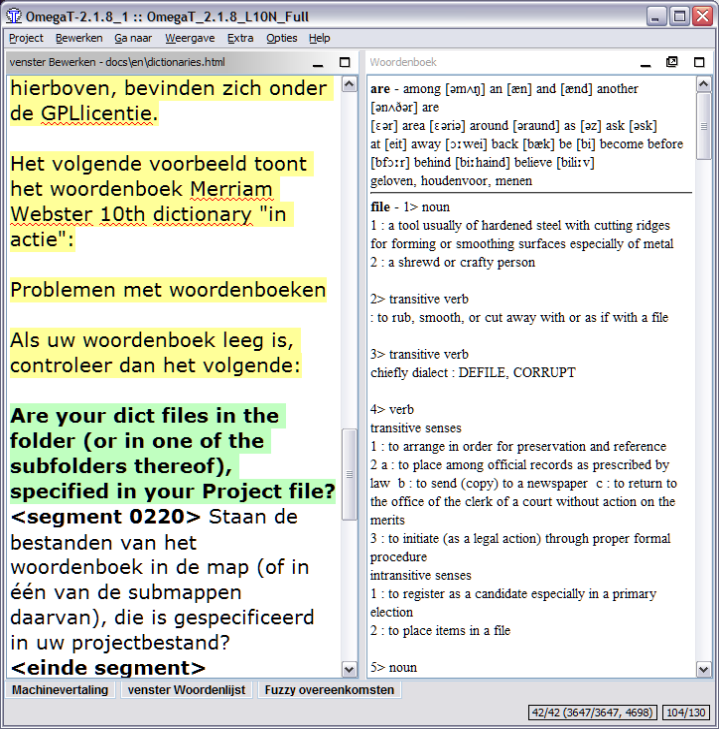
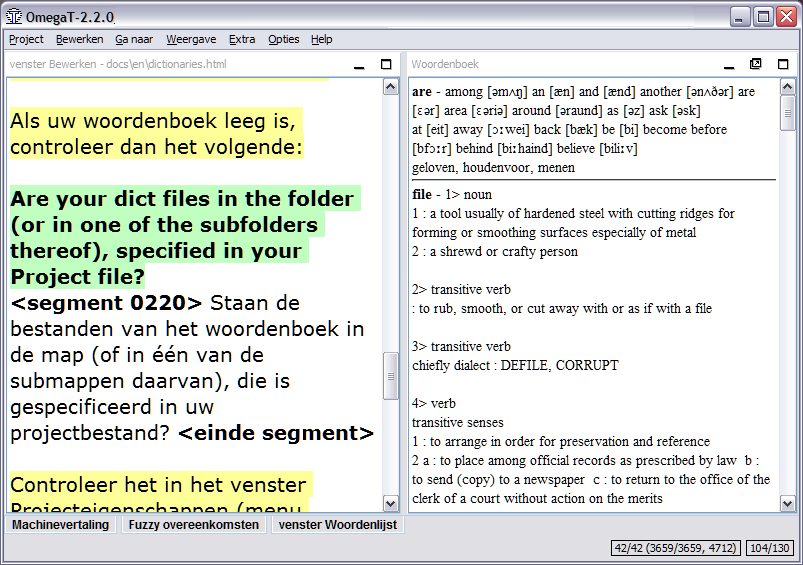
Dutch localisation updated to 2.2.0 (UI, Readme, documentation)

diff --git a/docs/nl/translationMemories.html b/docs/nl/translationMemories.html
@@ -15,7 +15,7 @@
       <ul>
         <li><a href="#TMX_files_locations_and_purpose">Locatie en doel</a></li>
 
-        <li><a href="#TMX_backup">TMX backup</a></li>
+        <li><a href="#TMX_backup">TMX back-up</a></li>
 
         <li><a href="#TMX_files_and_language">TMX en taal</a></li>
       </ul>
@@ -53,7 +53,7 @@
 
   <ul>
     <li>
-      <p>De map <em>/omegat/</em> bevat <em>project_save.tmx</em> en eventueel een aantal backups van TMX-bestanden.</p>
+      <p>De map <em>/omegat/</em> bevat <em>project_save.tmx</em> en eventueel een aantal back-ups van TMX-bestanden.</p>
 
       <p>Het bestand <em>project_save.tmx</em> bevat alle segmenten die zijn onthouden sinds u het project startte.</p>
     </li>
@@ -80,18 +80,18 @@
       </ul>
     </li>
 
-    <li>De map <em>/tm/</em> kan elk aantal TMX-bestanden bevatten. Zulke bestanden moeten correcte TMXbestanden zijn en kunnen ofwel alleen tekstuele informatie bevatten (niveau 1 TMX), OmegaT tekstuele en opmaakinformatie (omegat TMX) of TMX tekstuele en opmaakinformatie (niveau 2 TMX). De verschillen tussen hen zijn technisch van aard (zie hieronder voor de details), en als u een vertaalgeheugen uit een eerder project wilt gebruiken, zijn zij grotendeels uitwisselbaar, dat is zij zullen allemaal goed werken.
+    <li>De map <em>/tm/</em> kan elk aantal TMX-bestanden bevatten. Zulke bestanden moeten correcte TMX-bestanden zijn en kunnen ofwel alleen tekstuele informatie bevatten (niveau 1 TMX), OmegaT tekstuele en opmaakinformatie (omegat TMX) of TMX tekstuele en opmaakinformatie (niveau 2 TMX). De verschillen tussen hen zijn technisch van aard (zie hieronder voor de details), en als u een vertaalgeheugen uit een eerder project wilt gebruiken, zijn zij grotendeels uitwisselbaar, dat is zij zullen allemaal goed werken.
     </li>
   </ul>
-  <p>Optioneel kunt u OmegaT een aanvullend TMXbestand (OmegaT-stijl) laten maken, ergens waar u dat opgeeft, dat alle vertaalbare segmenten van het project bevat. Zie <a href="#pseudo_translate">pseudo-vertaald geheugen</a>.</p>
+  <p>Optioneel kunt u OmegaT een aanvullend TMX-bestand (OmegaT-stijl) laten maken, ergens waar u dat opgeeft, dat alle vertaalbare segmenten van het project bevat. Zie <a href="#pseudo_translate">pseudo-vertaald geheugen</a>.</p>
   
 
   <a name="TMX_backup" id="TMX_backup"></a>
-  <h3>TMX backup</h3>
+  <h3>TMX back-up</h3>
 
   <p>Bij het vertalen van uw bestanden slaat OmegaT al uw voortgang op in het vertaalgeheugen in de submap <em>/omegat</em> van het project.</p>
 
-  <p>OmegaT maakt ook, elke keer als een project wordt geopend of herladen, een backup van het vertaalgeheugen in <em>project_save.tmx.JAARMMDDUUMM.bak</em> in dezelfde submap. <em>JAAR</em> is 4-getallen jaar, <em>MM</em> is een maand, <em>DD</em> dag van de maand, <em>UU</em> en <em>MM</em> zijn uren en minuten van wanneer het vorige vertaalgeheugen werd opgeslagen.</p>
+  <p>OmegaT maakt ook, elke keer als een project wordt geopend of herladen, een back-up van het vertaalgeheugen in <em>project_save.tmx.JAARMMDDUUMM.bak</em> in dezelfde submap. <em>JAAR</em> is 4-getallen jaar, <em>MM</em> is een maand, <em>DD</em> dag van de maand, <em>UU</em> en <em>MM</em> zijn uren en minuten van wanneer het vorige vertaalgeheugen werd opgeslagen.</p>
 
   <p>Als u denkt dat u vertaalde gegevens kwijt bent, volg dan deze procedure:</p>
 
@@ -100,7 +100,7 @@
 
     <li>hernoem het huidige <em>project_save.tmx</em>-bestand naar iets dat u zult onthouden (zoals bijvoorbeeld <em>project_save.tmx.tijdelijk</em>)</li>
 
-    <li>selecteer de backup van het vertaalgeheugen dat meest waarschijnlijk de gegevens bevat die u nodig hebt</li>
+    <li>selecteer de back-up van het vertaalgeheugen dat meest waarschijnlijk de gegevens bevat die u nodig hebt</li>
 
     <li>hernoem het naar <em>project_save.tmx</em></li>
 
@@ -109,7 +109,7 @@
 
   <h3>TMX-bestanden en taal</h3>
 
-  <p>TMXbestanden bevatten <i>vertaaleenheden</i> die zijn gemaakt van een aantal equivalente segmenten in verschillende talen. Een vertaaleenheid bestaat uit ten minste twee <i>vertaaleenheid variaties</i> (tuv). Beide kunnen als bron of doel worden gebruikt.</p>
+  <p>TMX-bestanden bevatten <i>vertaaleenheden</i> die zijn gemaakt van een aantal equivalente segmenten in verschillende talen. Een vertaaleenheid bestaat uit ten minste twee <i>vertaaleenheid variaties</i> (tuv). Beide kunnen als bron of doel worden gebruikt.</p>
 
   <p>De instellingen in uw project zullen aangeven wat de bron- en wat de doeltaal is. OmegaT zal dus de <strong>tuv</strong> nemen die overeenkomt met de brontaalcode van het project en dat segment gebruiken als het bronsegment en het zal de <strong>tuv</strong> nemen die overeenkomt met de doeltaalcode van het project en dat segment gebruiken als het doelsegment. OmegaT herkent ze met behulp van de twee volgende standaardconventies:</p>
 
@@ -150,7 +150,7 @@
     <li>Als u een nieuw project begint voor hetzelfde onderwerp of voor dezelfde klant, navigeer naar de voorraadmap in het dialoogvenster <em>Project &gt; Eigenschappen &gt; Project bewerken</em> en selecteer het als de map voor het vertaalgeheugen.</li>
   </ul>
 
-  <p>Onthoud wel dat alle TMX-bestanden in de voorraadmap <em>/tm</em> worden geparsed tijdens het opstarten van het programma, dus als u daarin alle TMX-bestanden plaats die u tegenkomt zal dat OmegaT onnodig langzamer maken. U zou zelfs kunnen overwegen om die, welke strikt noodzakelijk zijn, uit te schakelen (bijvoorbeeld door ze in de submap <em>/tm</em> te laten staan, maar hun extensie te wijzigen), als hun inhoud eenmaal is geladen in de <em>project_save.tmx</em> van uw huidige project.</p>
+  <p>Onthoud wel dat alle TMX-bestanden in de voorraadmap <em>/tm</em> worden geparset tijdens het opstarten van het programma, dus als u daarin alle TMX-bestanden plaats die u tegenkomt zal dat OmegaT onnodig langzamer maken. U zou zelfs kunnen overwegen om die, welke strikt noodzakelijk zijn, uit te schakelen (bijvoorbeeld door ze in de submap <em>/tm</em> te laten staan, maar hun extensie te wijzigen), als hun inhoud eenmaal is geladen in de <em>project_save.tmx</em> van uw huidige project.</p>
 
   <p><a name="using_memories" id="using_memories"></a></p>
 

diff --git a/docs/nl/glossaries.html b/docs/nl/glossaries.html
@@ -39,7 +39,7 @@ Het woord voor het =-teken is de bronterm en de vertaling is (of zijn) de woorde
 <p>Woordenlijstbestanden zijn eenvoudige platte tekst-bestanden die drie-kolommen, tabgescheiden lijsten bevatten met de bron- en doeltermen in respectievelijk de eerste en tweede kolom. De derde kolom kan worden gebruikt voor aanvullende informatie. Woordenlijstbestanden kunnen of in de standaard systeemcodering (en aangegeven door de extensie <code>.tab</code>) zijn of in UTF-8 (de extensie <code>.utf8</code>). De codering Unicode (UTF8) wordt om voor de hand liggende redenen aanbevolen.</p>
 <hr>
 <h2><a name="howtocreate" id="howtocreate"></a>Hoe zijn woordenlijsten te maken</h2>
-Deze methode is ook geschikt voor "dwazen", mits op een redelijk behoedzame manier gevolgd. U heeft er OpenOffice.org Writer voor nodig, dus - als u dat al niet heeft gedaan - download en installeer OpenOffice.org. Start OpenOffice.org en open een nieuw tekstdocument of start "OpenOffice.org Writer".<br> <br> Voer uw termen voor de woordenlijst als volgt in het lege document in: een term in de brontaal, tab, de term in de doeltaal, tab, een opmerking of uitleg voor het item en dan&nbsp;Return. Tab is de tabulator-toets aan de linkerzijde van het toetsenbord. Indien u geen opmerkingen wilt toevoegen, kunt u de tweede tab weglaten. Een "term" kan één enkel woord zijn of een hele frase. Op de tweede regel voert u de tweede term en diens vertaling in. <br> Als u gereed bent met het invoeren van de termen, zult u twee "kolommen" met termen hebben, termen in de brontaal links en hun termen in de doeltaal aan recht en mogelijk een derde kolom, die uw opmerkingen en uitleg bevat. De tekens tab (→ in het voorbeeld hieronder)&nbsp;en Enter (¶&nbsp;) kunnen zichtbaar worden gemaakt door te klikken op het pictogram ¶ op de werkbalk Standaard van Writer. Hier zijn een aantal regels van een&nbsp;Engels -Duitse woordenlijst)<br>
+Deze methode is ook geschikt voor "dwazen", mits op een redelijk behoedzame manier gevolgd. U heeft er OpenOffice.org Writer voor nodig, dus - als u dat al niet heeft gedaan - download en installeer OpenOffice.org. Start OpenOffice.org en open een nieuw tekstdocument of start "OpenOffice.org Writer".<br> <br> Voer uw termen voor de woordenlijst als volgt in het lege document in: een term in de brontaal, tab, de term in de doeltaal, tab, een opmerking of uitleg voor het item en dan&nbsp;Return. Tab is de tabulator-toets aan de linkerzijde van het toetsenbord. Indien u geen opmerkingen wilt toevoegen, kunt u de tweede tab weglaten. Een "term" kan één enkel woord zijn of een hele frase. Op de tweede regel voert u de tweede term en diens vertaling in.<br> <br> Als u gereed bent met het invoeren van de termen, zult u twee "kolommen" met termen hebben, termen in de brontaal links en hun termen in de doeltaal aan recht en mogelijk een derde kolom, die uw opmerkingen en uitleg bevat. De tekens tab (→ in het voorbeeld hieronder)&nbsp;en Enter (¶&nbsp;) kunnen zichtbaar worden gemaakt door te klikken op het pictogram ¶ op de werkbalk Standaard van Writer. Hier zijn een aantal regels van een&nbsp;Engels -Duitse woordenlijst)<br>
 <br>
 <div style="font-family: Courier New,Courier,monospace;">&nbsp;&nbsp;&nbsp;
 word →Wort→das (-/e/s, Wörter/-e)¶</div>
@@ -57,7 +57,7 @@ Gebruik NIET de functie "kolommen" van OpenOffice.org om kolommen te maken:&nbsp
  style="font-style: italic;">Huidige indeling behouden</span>" en&nbsp; "<span style="font-style: italic;">Opslaan in ODF-indeling</span>". Selecteer "<span style="font-style: italic;">Huidige indeling behouden</span>" om in de bestandsindeling tekst gecodeerd op te slaan. Selecteer "<span style="font-style: italic;">Unicode (UTF-8)</span>" als de tekenset in het dialoogvenster ASCII-filteropties (zie hieronder):<br> <br> <img alt="ascii-filteropties voor woordenlijst"
  src="./images/AsciiFilteroptions.png"><br> <br> Bevestig met OK.<br> <br> Kopieer of verplaats dit bestand naar de map <span style="font-style: italic;">\glossary</span> van het project, na het maken van een OmegaT project. Als het project al is geopend, herlaad het dan na het kopiëren van het woordenlijstbestand U kunt wijzigingen maken in een woordenlijstbestand terwijl het wordt gebruikt in een project. Wijzigingen in woordenlijsten worden na ongeveer één seconde opgemerkt en wijzigingen worden transparant op de achtergrond geladen, dus is er geen reden om het project opnieuw te laden na het opslaan van het nieuwe woordenlijstbestand.<br> <br> Wanneer een segment, dat een brontekstterm bevat, wordt geopend, zal het venster Woordenlijst de items weergeven voor die termen in het bronsegment die worden gevonden in de woordenlijst (of woordenlijsten - u kunt er meer dan één beschikbaar hebben, en zij mogen ook worden opgeslagen in submappen van <i>glossary</i>).
 <h3><a name="multiterm" id="multiterm"></a>Gebruik van Trados Multiterm</h3>
-<p>Woordenlijsten die zijn gemaakt met behulp van Trados Multiterm's tekstexportfunctie kunnen bijvoorbeeld zonder verdere aanpassingen worden gebruikt als OmegaT-woordenlijsten, vooropgesteld dat zij de bestandsextensie <code>.tab</code> hebben gekregen en de bron- en doelterm-velden respectievelijk de eerste twee velden zijn. Indien u exporteert met behulp van de systeemoptie "Tabgescheiden exporteren", moet u de eerste 5 kolommen verwijderen (Seq. Nr, Datum gemaakt etc) vóór de twee items die van belang zijn.</p>
+<p>Woordenlijsten die zijn gemaakt met behulp van de functie tekstexport van Trados Multiterm kunnen bijvoorbeeld zonder verdere aanpassingen worden gebruikt als OmegaT-woordenlijsten, vooropgesteld dat zij de bestandsextensie <code>.tab</code> hebben gekregen en de bron- en doelterm-velden respectievelijk de eerste twee velden zijn. Indien u exporteert met behulp van de systeemoptie "Tabgescheiden exporteren", moet u de eerste 5 kolommen verwijderen (Seq. Nr, Datum gemaakt etc) vóór de twee items die van belang zijn.</p>
 <hr>
 <h2><a name="commonglossaryproblems" id="commonglossaryproblems"></a>Algemene problemen met woordenlijsten</h2>
 <dl>

diff --git a/docs/nl/filesAndDirectories.html b/docs/nl/filesAndDirectories.html
@@ -30,7 +30,7 @@
   <ul>
     <li>Projectbestanden vertaling: Zij vormen een vertaalproject. Verlies van deze bestanden kan de integriteit van het project beïnvloeden alsmede de mogelijkheid van het voltooien van uw werk. Projectbestanden zijn de meest belangrijke bestanden in OmegaT. Het zijn de bestanden waarmee u dagelijks hebt te maken bij het vertalen.</li>
 
-    <li>Bestanden voor gebruikersinstellingen: Zij worden gemaakt als het gedrag van OmegaT wordt gewijzigd met voorkeursinstellingen die voor de gebruiker toegankelijk zijns. Verlies van deze bestanden zorgt er meestal voor dat OmegaT zal werken met "fabrieks"instellingen. Dit kan soms enige problemen geven als u midden in een vertaling bent.</li>
+    <li>Bestanden voor gebruikersinstellingen: Zij worden gemaakt als het gedrag van OmegaT wordt gewijzigd met voorkeursinstellingen die voor de gebruiker toegankelijk zijn. Verlies van deze bestanden zorgt er meestal voor dat OmegaT zal werken met "fabrieks"instellingen. Dit kan soms enige problemen geven als u midden in een vertaling bent.</li>
 
     <li>Toepassingsbestanden: Zij zijn opgenomen in het pakket dat u hebt gedownload, de meeste er van zijn nodig om OmegaT juist te laten functioneren. Als door enige oorzaak deze bestanden verloren gaan, download en herinstalleer dan OmegaT om ze allemaal terug te zetten.</li>
   </ul>
@@ -65,7 +65,7 @@
 
   <dl>
     <dt>De submap <b>omegat</b> zal uiteindelijk een aantal bestanden bevatten, het meest belangrijke daaronder is het bestand met het vertaalgeheugen <em>project_save.tmx</em> (<a href="translationMemories.html">...</a>). Het bestand <em>project_save.tmx</em> is het werkende vertaalgeheugen voor het project. Met de geactiveerde functie Automatisch opslaan wordt het automatisch bijgewerkt als u stopt. Het is het vertaalgeheugen dat wordt gebruikt om de vertaalde bestanden te maken. Een aantal bestanden met namen in de vorm project_save.tmx.<i>&lt;datum en tijd</i>&gt;.bak (<a href=
-    "translationMemories.html#TMX_backup">...</a>) zullen later aan deze submap worden toegevoegd. Zij dienen als backup voor het vertaalgeheugen van het project en worden, iedere keer als u een project opnieuw opent, bijgewerkt om de inhoud van het project weer te geven, voordat de huidige sessie die heeft veranderd.</dt>
+    "translationMemories.html#TMX_backup">...</a>) zullen later aan deze submap worden toegevoegd. Zij dienen als back-up voor het vertaalgeheugen van het project en worden, iedere keer als u een project opnieuw opent, bijgewerkt om de inhoud van het project weer te geven, voordat de huidige sessie die heeft veranderd.</dt>
 
     <dd>Het bestand <b>stats.txt</b> (<a href="userInterface.html#files">...</a>) bevat de statistieken over het huidige project en kan worden geopend in een werkbladtoepassing om segment- en informatie over de telling van woorden weer te geven. De informatie die het bevat is meer gedetailleerd dan wat er wordt weergegeven in het venster <em>Projectbestanden</em>. De bestanden <strong>ignored_words.txt</strong> en <strong>learned_words.txt</strong>, indien zij bestaan, zullen worden gebruikt door de spellingscontrole.</dd>
   </dl>
@@ -245,7 +245,7 @@
   <h3><a name="application" id="application"></a>Toepassingsbestanden</h3>
 
   <p>OmegaT bestaat uit een pakket dat u kunt downloaden vanaf SourceForge. In dit hoofdstuk gaan we uit van het <a href=
-  "installingAndRunning.html#Andere_systemen">platformonafhankelijke pakket</a> dat de toepassing in een standaard Java-vorm bevat. Andere pakketten zijn: een Linux <code>.tar</code> pakket, een Windows-installatieprogramma -met of zonder een Java Runtime Environment, een MacOSX-installatieprogramma en een broncodepakket voor ontwikkelaars. Dit platformonafhankelijke pakket kan worden gebruikt op <strong>elk</strong> platform met een werkende Java 1.5 runtime omgeving, inclusief de platforms waarvoor een specifiek pakket bestaat. Het platformonafhankelijke pakket bestaat uit een gecomprimeerd bestand dat u in de map van uw keuze moet uitpakken bij de installatie. Uitpakken wordt gewoonlijk gedaan door te dubbelklikken op het gedownloade pakket. Eenmaal uitgepakt zal een map zijn gemaakt die de de volgende inhoud zal bevatten:</p>
+  "installingAndRunning.html#Andere_systemen">platform onafhankelijke pakket</a> dat de toepassing in een standaard Java-vorm bevat. Andere pakketten zijn: een Linux <code>.tar</code> pakket, een Windows-installatieprogramma -met of zonder een Java Runtime Environment, een MacOSX-installatieprogramma en een broncodepakket voor ontwikkelaars. Dit platform onafhankelijke pakket kan worden gebruikt op <strong>elk</strong> platform met een werkende Java 1.5 runtime omgeving, inclusief de platforms waarvoor een specifiek pakket bestaat. Het platform onafhankelijke pakket bestaat uit een gecomprimeerd bestand dat u in de map van uw keuze moet uitpakken bij de installatie. Uitpakken wordt gewoonlijk gedaan door te dubbelklikken op het gedownloade pakket. Eenmaal uitgepakt zal een map zijn gemaakt die de volgende inhoud zal bevatten:</p>
 
   <table width="100%" border="1" cellpadding="4" cellspacing="0" summary=
   "just formatting">

diff --git a/docs/nl/spellchecker.html b/docs/nl/spellchecker.html
@@ -53,16 +53,16 @@
   <p>Klikken op <b>Opties &gt; Spellingscontrole...</b> zal het onderstaande venster openen:</p>
 
   <p><br></p><img src="images/SpellcheckerSetup2.png" name="grafika2" alt=
-  "Instellen spellingscontrole" align="left" width="498" height="325" border="0" id=
+  "Opties voor spellingscontrole" align="left" border="0" id=
   "grafika2"><br clear="left">
 
   <p><br></p>
 
   <p>Het bovenstaande voorbeeld bevat reeds de beschikbare woordenboeken. Initieel zal er niets in staan omdat u moet specificeren waar OmegaT moet zoeken naar de woordenboeken. Klik op <strong>Kies...</strong> om een dialoogvenster te openen waar u een submap kunt selecteren met bestaande woordenboeken van OpenOffice.org of Mozilla. De eenvoudigste manier om ze te vinden is om te zoeken naar bestanden met de extensies <i>aff</i> of <i>dic</i>. OmegaT zal alle beschikbare geldige woordenboeken op die locatie herkennen en ze weergeven. Als het woordenboek dat u wilt gebruiken daar al staat en zichtbaar is voor OmegaT, bent u klaar. Als er geen woordenboeken werden gevonden kunt u er een toepasselijke plaats voor kiezen en dan klikken op <b>Installeren</b> en OmegaT laten zoeken naar beschikbare woordenboeken. Selecteer de woordenboeken die u nodig hebt in het pop-upvenster en klik dan op <b>installeren</b>. De geselecteerde talen zullen dan worden geïnstalleerd en verschijnen uiteindelijk in het venster Instellen spellingscontrole (dit kan even duren).</p>
 
-  <p>Onthoud dat het installatieprogramma afhankelijk is van de lijst met woordenboeken op het internet. In het geval dat die gedateerd is of de gewenste taal niet beschikbaar is zult u zelf moeten zoeken naar de woordenboeken. OpenOffice.org bevat waarschijnlijk de grootste collectie woordenboeken op de site &lt;a3&gt;OpenOffice.org Dictionaries&lt;/a3&gt;. Nadat de extensie met het woordenboek is gedownload en geïnstalleerd, zullen de corresponderende <i>aff</i> en <i>dic</i> beschikbaar komen. Hetzelfde kan worden bereikt door een extensie voor spellingscontrole toe te voegen aan Firefox of Thunderbird; in dit geval zullen de bestanden van de spellingscontrole worden opgeslagen in uw profiel (Firefox of Thunderbird).</p>
+  <p>Onthoud dat het installatieprogramma afhankelijk is van de lijst met woordenboeken op het internet. In het geval dat die gedateerd is of de gewenste taal niet beschikbaar is zult u zelf moeten zoeken naar de woordenboeken. OpenOffice.org bevat waarschijnlijk de grootste collectie woordenboeken op de site <a href="http://extensions.services.openoffice.org/dictionary">OpenOffice.org Dictionaries</a>. Nadat de extensie met het woordenboek is gedownload en geïnstalleerd, zullen de corresponderende <i>aff</i> en <i>dic</i> beschikbaar komen. Hetzelfde kan worden bereikt door een extensie voor spellingscontrole toe te voegen aan Firefox of Thunderbird; in dit geval zullen de bestanden van de spellingscontrole worden opgeslagen in uw profiel (Firefox of Thunderbird).</p>
 
-  <p>Zorg er voor dat de taalcode van de doelbestanden correspondeert met de taalcode van het woordenboek: een FR-FR woordenboek zal niet werken met de instelling FR voor het doel. U zult de instelling naar FR-FR moeten wijzigen om de spellingscontrole het juiste woordenboek voor uw doel te laten herkennen. Zoek naar bestanden met de naam, verwijzend naar de gebruikte taal en die de extensies <i>aff</i> en &lt;i2&gt;dic.&lt;/i2&gt; hebben.</p>
+  <p>Zorg er voor dat de taalcode van de doelbestanden correspondeert met de taalcode van het woordenboek: een FR-FR woordenboek zal niet werken met de instelling FR voor het doel. U zult de instelling naar FR-FR moeten wijzigen om de spellingscontrole het juiste woordenboek voor uw doel te laten herkennen. Zoek naar bestanden met de naam, verwijzend naar de gebruikte taal en die de extensies <i>aff</i> en <i>dic.</i> hebben.</p>
 
   <h3><a name="Hints" id="Hints"></a>Hints</h3>
 
@@ -74,7 +74,7 @@
     </li>
 
     <li>
-      <p>Controleer de taalcode van uw doel met de beschikbare woordenboeken in het venster Instellen spellingscontrole. De spellingscontrole bepaalt de taal die het moet gebruiken uit de taalcode van het doel: als de taalcode voor het doel Braziliaans Portugees (PT_BR) is, moet de submap met woordenboeken de twee woordenboekbestanden, genaamd pt_br.aff en pt_br.dic, bevatten.</p>
+      <p>Controleer de taalcode van uw doel met de beschikbare woordenboeken in het venster Instellen spellingscontrole. De spellingscontrole bepaalt de taal die het moet gebruiken uit de taalcode van het doel: als de taalcode voor het doel Braziliaans Portugees (PT_BR) is, moet de submap met woordenboeken de twee woordenboekbestanden, genaamd <i>pt_br.aff</i> en <i>pt_br.dic</i>, bevatten.</p>
     </li>
   </ol>
 

diff --git a/docs/nl/installingAndRunning.html b/docs/nl/installingAndRunning.html
@@ -279,7 +279,7 @@
 
   <p>Dubbelklik op het programma dat u hebt gedownload en  volg de instructies om OmegaT te installeren. </p>
 
-  <h3><a name="windows_menu" id="windows_menu"></a>OmegaT toevoegen aan het startmenu of bureaublad</h3>
+  <h3><a name="windows_menu" id="windows_menu"></a>OmegaT toevoegen aan het menu Start of bureaublad</h3>
 
   <p>Gedurende de installatie zal het programma u vragen of u een map in het menu <em>Start</em> wilt maken en of u een snelkoppeling op het bureaublad en het systeemvak wilt maken.</p>
 
@@ -317,11 +317,11 @@
 
   <p>Als u de Java-startparameters vanaf de opdrachtregel wilt wijzigen kunt u de standaardinstellingen van OmegaT.app aanpassen door het bewerken van het bestand <em>Info.plist</em> dat zich bevind in <em>OmegaT.app/Contents/</em>. Open het bestand "Info.plist" door er met rechts op te klikken en de tekstbewerker van uw keuze te kiezen. U kunt het gedeelte <em>Properties</em> en ook het gedeelte <em>VMOptions</em> aanpassen. Indien u waarden wilt toevoegen aan <em>VMOptions</em>, plaatst u er een spatie tussen. Bijvoorbeeld: <code>-Xmx1024M -Duser.language=ja</code> zal OmegaT opstarten met 1024MB aan geheugen en de gebruikersinterface in het Japans.</p>
 
-  <p>Direct opstarten van <em>OmegaT.app</em> maakt het niet mogelijk om meerdere instances van <em>OmegaT.app</em> uit te voeren. Als u meerdere instances van <em>OmegaT.app</em> moet uitvoeren, gebruik dan in plaats daarvan het bestand <em>JavaApplicationStub</em> dat zich bevind in <em>OmegaT.app/ Contents/MacOS/</em>.</p>
+  <p>Direct opstarten van <em>OmegaT.app</em> maakt het niet mogelijk om meerdere instances van <em>OmegaT.app</em> uit te voeren. Als u meerdere instanties van <em>OmegaT.app</em> moet uitvoeren, gebruik dan in plaats daarvan het bestand <em>JavaApplicationStub</em> dat zich bevind in <em>OmegaT.app/ Contents/MacOS/</em>.</p>
 
   <p>Het is niet mogelijk om de Lucene stemmer te gebruiken uit het pakket <em>OmegaT.app</em>. U moet OmegaT uitvoeren vanaf de opdrachtregel (zie hieronder).</p>
 
-  <p>Roep het bestand <em>OmegaT.jar</em> aan dat zich bevind in <em>OmegaT.app/Contents/Resources/ Java/</em> om startparameters van Java te wijzigen vanaf de opdrachtregel. Opstarten van <em>OmegaT.app</em> vanaf de opdrachtregel is hetzelfde als het gebruiken van het "algemene" pakket van OmegaT. U zult in staat zijn om meerdere instances van OmegaT uit te voeren en ook om de Lucene stemmer te gebruiken. Bekijk "Starten vanaf de opdrachtregel" hieronder voor meer informatie.</p>
+  <p>Roep het bestand <em>OmegaT.jar</em> aan dat zich bevind in <em>OmegaT.app/Contents/Resources/ Java/</em> om startparameters van Java te wijzigen vanaf de opdrachtregel. Opstarten van <em>OmegaT.app</em> vanaf de opdrachtregel is hetzelfde als het gebruiken van het "algemene" pakket van OmegaT. U zult in staat zijn om meerdere instanties van OmegaT uit te voeren en ook om de Lucene stemmer te gebruiken. Bekijk "Starten vanaf de opdrachtregel" hieronder voor meer informatie.</p>
 
   <p>Klik met rechts op <em>OmegaT.app</em> en selecteer "Show Package Contents", of "cd" daar direct naar toe vanaf de opdrachtregel om toegang te krijgen tot een locatie binnen het pakket <em>OmegaT.app</em>.</p>
 
@@ -396,7 +396,7 @@
 
   <h3>Methode 1: openen van een venster voor de opdrachtregel</h3>
 
-  <p>Een venster voor de opdrachtregel wordt ook wel een "terminalvenster" genoemd. Op Windows wordt het een "MS-DOSvenster" genoemd en is het beschikbaar via het Startmenu, in Alle programma's → Bureau-accessoires, via het item "Opdrachtprompt". Het equivalent voor de Mac OS X is de toepassing Terminal die zich bevind in Programma's → Hulpprogramma's.</p>
+  <p>Een venster voor de opdrachtregel wordt ook wel een "terminalvenster" genoemd. Op Windows wordt het een "MS-DOSvenster" genoemd en is het beschikbaar via het menu Start, in Alle programma's → Bureau-accessoires, via het item "Opdrachtprompt". Het equivalent voor de Mac OS X is de toepassing Terminal die zich bevind in Programma's → Hulpprogramma's.</p>
 
   <p>U moet normaal gesproken twee opdrachten typen om OmegaT te starten. De eerste hiervan is:</p>
 

diff --git a/docs/nl/userInterface.html b/docs/nl/userInterface.html
@@ -44,6 +44,11 @@
                 <li>
                   <p><a href="#Match">venster Overeenkomsten</a></p>
                 </li>
+
+                <li>
+                  <p><a href="#Glossary">venster Woordenlijst</a></p>
+                </li>
+
                 <li>
                   <p><a href="#Glossary">venster Woordenlijst</a></p>
                 </li>
@@ -495,7 +500,7 @@
   <dl>
     <dt>Er zijn twee <a href="searches.html#searchmethods">typen</a> om te zoeken beschikbaar:</dt>
 
-    <dt>Exact zoeken zoekt naar de gespecificeerde zoekreeks binnen het huidige project of in een willekeurige map of mapgedeelte.</dt>
+    <dt><strong>Exact zoeken</strong> zoekt naar de gespecificeerde zoekreeks binnen het huidige project of in een willekeurige map of mapgedeelte.</dt>
 
     <dt><strong>Zoeken op sleutelwoorden -</strong> onderzoekt het huidige project en geeft alle segmenten weer die alle gezochte woorden bevatten, in willekeurige volgorde.</dt>
   </dl>
@@ -530,7 +535,7 @@
   <p>De tags worden vet blauw geaccentueerd voor eenvoudige vergelijking tussen de originele en de vertaalde inhoud. Klik op de koppeling om naar het segment in het venster Bewerken te springen. Verbeter, indien nodig, de fout en druk op <code><a href="menu.html#shortcuts">Ctrl+T</a></code> om terug te keren naar het venster Tags valideren om andere fouten te corrigeren. In het eerste en derde geval hierboven waren tags niet correct gepaard en in het tweede geval ontbreekt bij de openingstag het &lt;-teken.</p>
 
   <p><a href="formattedText.html#intro">Tag</a>-fouten zijn <a href=
-  "formattedText.html#tag_operation">tagbewerkingen</a> in de vertaling die niet dezelfde tagvolgorde en nummering teruggeven als die in het originele segment. Sommige tagbewerkingen zijn noodzakelijk en zijn goedaardig, sommige zullen problemen veroorzaken als het vertaalde document wordt gemaakt. Tags vertegenwoordigen meestal enige vorm van opmaak in de originele tekst. <strong>Vereenvoudigen van de originele tekstopmaak</strong> draagt enorm bij tot het verminderen van het aantal tags.</p>
+  "formattedText.html#tag_operation">tagbewerkingen</a> in de vertaling die niet dezelfde tagvolgorde en nummering teruggeven als die in het originele segment. Sommige tagbewerkingen zijn noodzakelijk en zijn goedaardig, sommige zullen problemen veroorzaken als het vertaalde document wordt gemaakt. Tags vertegenwoordigen meestal enige vorm van opmaak in de originele tekst. <strong>Vereenvoudigen van de opmaak van de originele tekst</strong> draagt enorm bij aan het verminderen van het aantal tags.</p>
 
   <h3>Help-browser</h3>
 

diff --git a/docs/nl/filesToTranslate.html b/docs/nl/filesToTranslate.html
@@ -133,7 +133,7 @@
   <h3><a name="tagged" id="tagged"></a>Opgemaakte tekstbestanden</h3>
 
   <p>Opgemaakte tekstbestanden bevatten zowel tekst als informatie, zoals lettertype, afmeting, kleur etc. Zij worden normaal gesproken gemaakt met tekstbewerkingsprogramma's of programma's voor het maken van homepages. Zulke bestanden worden zodanig opgeslagen dat zij hun opmaakinformatie behouden. Zulke opmaakinformatie kan eenvoudig zijn zoals <strong>dit is vet</strong> of zo complex als tabelgegevens met verschillende lettertype-afmetingen, kleur, positie etc. In de meeste vertalingen wordt het belangrijk geacht dat het vertaalde document er uitziet zoals het origineel. OmegaT stelt u in staat om dit te doen door het markeren van de tekens/woorden die een speciale opmaak hebben met eenvoudig te bewerken <a href="formattedText.html">tags</a>. Vereenvoudigen van de opmaak van de originele tekst draagt enorm bij aan het verminderen van het aantal tags. Het gelijk maken van gebruikte lettertypen, lettertype-afmetingen, kleuren etc zou indien mogelijk moeten worden overwogen, om het vertalen te vereenvoudigen en het verminderen van het aantal mogelijke <a href=
-  "userInterface.html#Tag_validation">fouten in tags</a>. Elk bestandstype wordt verschillend behandeld in OmegaT. Specifiek gedrag kan worden ingesteld in de <a href="fileFilters.html">bestandsfilters</a>. Momenteel ondersteunt OmegaT de volgende formaten voor opgemaakte tekst:</p>
+  "userInterface.html#Tag_validation">fouten in tags</a>. <a name="specifics" id="specifics"></a> Elk bestandstype wordt verschillend behandeld in OmegaT. Specifiek gedrag kan worden ingesteld in de <a href="fileFilters.html">bestandsfilters</a>. Momenteel ondersteunt OmegaT de volgende formaten voor opgemaakte tekst:</p>
 
   <ul>
     <li>

diff --git a/docs/nl/xindex.html b/docs/nl/xindex.html
@@ -231,10 +231,15 @@
         <td width="20%"><a href=
         "installingAndRunning.html#Windows_users">Windows-gebruikers</a></td>
 
+        <td width="20%"><a href="installingAndRunning.html#MacOSX_users">MacOSX
+        users</a></td>
+
         <td width="20%"><a href="installingAndRunning.html#Andere_systemen">Andere systemen</a></td>
 
         <td width="20%"><a href="installingAndRunning.html#build_which">Pakket om te downloaden</a></td>
+      </tr>
 
+      <tr>
         <td width="20%"><a href=
         "installingAndRunning.html#source_build">OmegaT bouwen vanuit de bron</a></td>
       </tr>
@@ -265,7 +270,7 @@
 
       <tr>
         <td width="20%"><a href=
-        "http://tech.groups.yahoo.com/group/OmegaT/database?method=reportRows&amp;tbl=1">
+        "http://tech.groups.yahoo.com/group/OmegaT/database?method=reportRows&tbl=1">
         OmegaT FAQ's</a></td>
 
         <td width="20%"><a href=
@@ -275,7 +280,7 @@
         <td width="20%"><a href="website.html">Rapport met problemen</a></td>
 
         <td width="20%"><a href=
-        "http://sourceforge.net/tracker/?group_id=68187&amp;atid=520347">Foutenrapporten</a></td>
+        "http://sourceforge.net/tracker/?group_id=68187&atid=520347">Foutenrapporten</a></td>
 
         <td width="20%"><a href="license.txt">Gnu algemene publieke licentie</a></td>
       </tr>
@@ -625,8 +630,7 @@
         <td width="20%"><a href=
         "translationMemories.html#TMX_files_location_and_purpose">TMX - bestanden locatie</a></td>
 
-        <td width="20%"><a href="translationMemories.html#TMX_backup">TMX -
-        backup</a></td>
+        <td width="20%"><a href="translationMemories.html#TMX_backup">TMX - back-up</a></td>
       </tr>
 
       <tr>

diff --git a/docs/nl/formattedText.html b/docs/nl/formattedText.html
@@ -85,7 +85,7 @@
   <p>Als echter de standaard segmentatieregels op dit segment worden toegepast (het standaard OmegaT-gedrag) krijgen we het volgende resultaat:</p>
   <pre>
  <strong>&lt;segment 1990&gt;</strong> <font color=
-"#FB0000">&lt;b0&gt;</font>Vóór: \. &lt;einde segment&gt;
+"#FB0000">&lt;b0&gt;</font>Vóór: \. <strong>&lt;einde segment&gt;</strong><br>
 <strong>&lt;segment 1991&gt;</strong> Na: \s<font color=
 "#FB0000">&lt;/b0&gt;</font><strong>&lt;einde segment&gt;</strong> <br>
 </pre>
@@ -250,7 +250,7 @@ echo printf(_("OmegaT is erg %s"),$var);</pre>
   <p>Volledige validatie ondersteunt deze indeling volledig, met uitzondering van de <code>WIDTHSPECIFIER</code>. In eenvoudige validatie wordt de volgende syntaxis gecontroleerd:</p>
   <pre>"%" [ARGUMENTSWAPSPECIFIER] [PRECISIONSPECIFIER] TYPESPECIFIER</pre>
 
-  <p>U kunt de volgorde van de aanduidingen wijzigen, maar dan moet u de ARGUMENTSWAPSPECIFIER toevoegen als die er nog niet staat. Dit betekent het toevoegen van een reeksnummer en een dollarteken na de <code>%</code>. Bijv. <code>"%s is een %s toepassing"</code> is gelijk aan <code>"%1$s is een %2$s toepassing"</code> die u kunt vertalen door <code>"a %2$s toepassing is %1$s"</code>.
+  <p>U kunt de volgorde van de aanduidingen wijzigen, maar dan moet u de ARGUMENTSWAPSPECIFIER toevoegen als die er nog niet staat. Dit betekent het toevoegen van een reeksnummer en een dollarteken na de <code>%</code>. Bijv. <code>"%s is een %s toepassing"</code> is gelijk aan <code>"%1$s is een %2$s toepassing"</code> die u kunt vertalen door <code>"een %2$s toepassing is %1$s"</code>.
   </p>
   <hr>
 

diff --git a/docs/nl/website.html b/docs/nl/website.html
@@ -13,10 +13,10 @@
 
   <p>De <a href="http://www.omegat.org/">OmegaT-website</a> bevat koppelingen naar verschillende bronnen voor OmegaT, dus u zou daar kunnen beginnen. Ondersteuning voor gebruikers wordt gegeven op vrijwillige basis op de <a href=
   "http://groups.yahoo.com/group/OmegaT/">OmegaT Yahoo gebruikersgroep</a>. De hoek met <a href=
-  "http://tech.groups.yahoo.com/group/OmegaT/database?method=reportRows&amp;tbl=1"> FAQ's</a> daar zou een goed begin kunnen zijn voor uw vragen. OmegaT heeft ook een IRC (Internet Relay Chat)-kanaal op FreeNode: #omegat. Nieuwe versies van OmegaT kunnen worden gedownload van <a href=
+  "http://tech.groups.yahoo.com/group/OmegaT/database?method=reportRows&tbl=1"> FAQ's</a> daar zou een goed begin kunnen zijn voor uw vragen. OmegaT heeft ook een IRC (Internet Relay Chat)-kanaal op FreeNode: #omegat. Nieuwe versies van OmegaT kunnen worden gedownload van <a href=
   "http://sourceforge.net/projects/omegat/">OmegaT SourceForge.net Project</a>, waar u ook <a href=
-  "http://sourceforge.net/tracker/?group_id=68187&amp;atid=520347">foutenrapporten</a> en <a href=
-  "http://sourceforge.net/tracker/?group_id=68187&amp;atid=520350">verzoeken voor verbeteringen</a> kunt indienen.</p>
+  "http://sourceforge.net/tracker/?group_id=68187&atid=520347">foutenrapporten</a> en <a href=
+  "http://sourceforge.net/tracker/?group_id=68187&atid=520347">verzoeken voor verbeteringen</a> kunt indienen.</p>
 
   <h3>Foutenrapporten</h3>
 

diff --git a/docs/nl/menu.html b/docs/nl/menu.html
@@ -286,7 +286,7 @@
 
       <tr bgcolor="#FFFFFF">
         <td colspan="3">
-          <p>Het menu Bewerken bevat de volgende sneltoetsen:</p>
+          <p>Het menu <strong>Bewerken</strong> bevat de volgende sneltoetsen:</p>
 
       </td></tr><tr bgcolor="#DDDDDD">
         <td>
@@ -568,7 +568,7 @@
         </td>
 
         <td>
-          <p>Controleert op missende of misplaatste tags in opgemaakte bestanden. Zal een lijst weergeven waarin de segmenten met tagfouten staan. De sectie over het venster <a href=
+          <p>Controleert op ontbrekende of misplaatste tags in opgemaakte bestanden. Zal een lijst weergeven waarin de segmenten met tagfouten staan. De sectie over het venster <a href=
           "userInterface.html#Tag_validation">Tags valideren</a> laat zien wat u daar ziet en <a href="formattedText.html">Werken met opgemaakte tekst</a> vertelt u waarom.</p>
         </td>
       </tr>
@@ -1128,7 +1128,7 @@
         </td>
 
         <td>
-          <p>Opent een nieuw venster &lt;a0&gt;Zoeken&lt;/a0&gt;.</p>
+          <p>Opent een nieuw venster Zoeken.</p>
         </td>
       </tr>
 

diff --git a/docs/nl/preventingDataLoss.html b/docs/nl/preventingDataLoss.html
@@ -20,7 +20,7 @@
 
     <li>hernoem het huidige <code>project_save.tmx</code>-bestand naar iets dat u zult onthouden (zoals bijvoorbeeld <code>project_save.tmx.tijdelijk</code>)</li>
 
-    <li>selecteer de backup van het vertaalgeheugen dat meest waarschijnlijk de gegevens bevat die u nodig hebt</li>
+    <li>selecteer de back-up van het vertaalgeheugen dat meest waarschijnlijk de gegevens bevat die u nodig hebt</li>
 
     <li>hernoem het naar <code>project_save.tmx</code></li>
 
@@ -30,7 +30,7 @@
   <p>Voorkomen van verlies van belangrijke gegevens:</p>
 
   <ul>
-    <li>Maak regelmatig kopieën van het bestand <code>/omegat/project_save.tmx</code> naar backupmedia, zoals CD of DVD.</li>
+    <li>Maak regelmatig kopieën van het bestand <code>/omegat/project_save.tmx</code> naar back-upmedia, zoals CD of DVD.</li>
 
     <li>Maak met regelmatige tussenpozen de vertaalde bestanden en controleer of dat vertaalde bestand de laatste versie van uw vertaling bevat, totdat u zich OmegaT eigen hebt gemaakt.</li>
 
